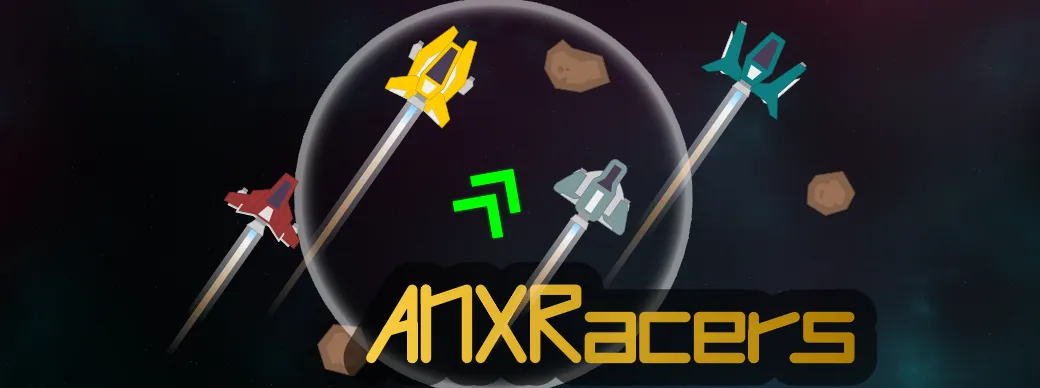
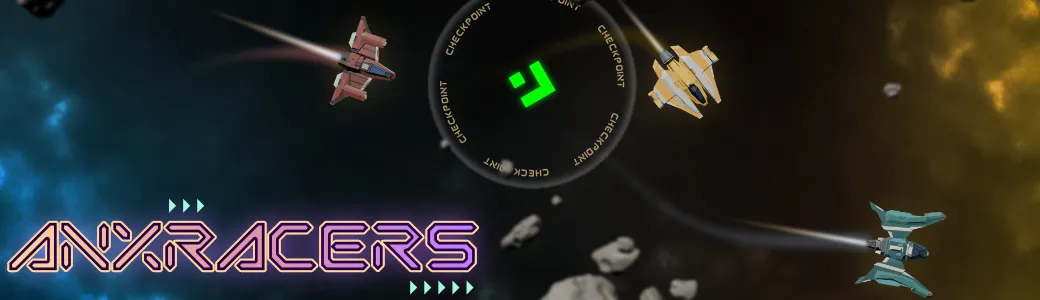
Update Graphic Assets for ANXRacers

diff --git a/racers/index.html b/racers/index.html
@@ -7,7 +7,7 @@
 <html>
 
 <head>
-    <title>ANXRacers</title>
+    <title>ANXRacers - Drift Space</title>
     <meta charset="utf-8" />
     <meta name="viewport"
           content="width=device-width, initial-scale=1, user-scalable=no" />
@@ -85,19 +85,19 @@
     <meta name="msapplication-config"
           content="./meta/browserconfig.xml" />
     <meta property="og:title"
-          content="ANXRacers - Race across the stars!!!" />
+          content="ANXRacers - Drift Space" />
     <meta property="og:site_name"
           content="ANXRacers" />
     <meta property="og:description"
           content="ANXRacers offers you the ultimate arcade spaceship racing experience where everything is about reaching the perfect racing time. Optimize your turns, don't loose your speed, make epic space drifts and set World Records!" />
     <meta property="og:image"
-          content="https://studios.aeonax.com/racers/images/ANXRacersIGDB.png" />
+          content="https://studios.aeonax.com/racers/images/IGDBCoverNeo.png" />
     <meta name="theme-color"
           content="#00FF88" />
     <meta name="twitter:card"
           content="summary_large_image" />
     <script id="_schemaOrgMarkup-Product"
-            type="application/ld+json">{"@type":"Product","@context":"https://schema.org","@id":"https://studios.aeonax.com/racers/index.html","brand":{"@type":"Brand","name":"AEonAX Studios"},"description":"Download and play ANXRacers for FREE at the Itch.io game store. Check for platform availability and play today!","gamePlatform":["windows","android"],"image":"https://studios.aeonax.com/racers/images/ANXRacersIGDB.png","mainEntityOfPage":true,"name":"ANXRacers","operatingSystem":["windows","android"],"producer":"AEonAX Studios","publisher":"AEonAX Studios","url":"https://studios.aeonax.com/racers/index.html","aggregateRating":{"@type":"AggregateRating","ratingValue":"4","reviewCount":"100"},"review":[{"@type":"Review","author":{"@type":"Person","name":"AEonAX"},"datePublished":"2022-11-13","reviewBody":"The game is awesome","name":"Its awesome. Spent so many hours","reviewRating":{"@type":"Rating","bestRating":"5","ratingValue":"5","worstRating":"1"}}],"offers":[{"price":0,"@type":"Offer","@context":"https://schema.org","acceptedPaymentMethod":["http://purl.org/goodrelations/v1#PayPal","http://purl.org/goodrelations/v1#VISA","http://purl.org/goodrelations/v1#MasterCard","http://purl.org/goodrelations/v1#AmericanExpress","http://purl.org/goodrelations/v1#Discover","http://purl.org/goodrelations/v1#JCB","http://purl.org/goodrelations/v1#DinersClub"],"availability":"http://schema.org/InStock","availableDeliveryMethod":"http://purl.org/goodrelations/v1#DeliveryModeDirectDownload","category":"VideoGame","mainEntityOfPage":false,"name":"ANXRacers","description":"ANXRacers offers you the ultimate arcade spaceship racing experience where everything is about reaching the perfect racing time. Optimize your turns, don't loose your speed, make epic space drifts and set World Records!","priceSpecification":{"price":0,"priceCurrency":"USD"},"priceValidUntil":"2023-11-14T00:00:00.000Z","url":"/racers/index.html","priceCurrency":"USD"}]}</script>
+            type="application/ld+json">{"@type":"Product","@context":"https://schema.org","@id":"https://studios.aeonax.com/racers/index.html","brand":{"@type":"Brand","name":"AEonAX Studios"},"description":"Download and play ANXRacers for FREE at the Itch.io game store. Check for platform availability and play today!","gamePlatform":["windows","android"],"image":"https://studios.aeonax.com/racers/images/IGDBCoverNeo.png","mainEntityOfPage":true,"name":"ANXRacers","operatingSystem":["windows","android"],"producer":"AEonAX Studios","publisher":"AEonAX Studios","url":"https://studios.aeonax.com/racers/index.html","aggregateRating":{"@type":"AggregateRating","ratingValue":"4","reviewCount":"100"},"review":[{"@type":"Review","author":{"@type":"Person","name":"AEonAX"},"datePublished":"2022-11-13","reviewBody":"The game is awesome","name":"Its awesome. Spent so many hours","reviewRating":{"@type":"Rating","bestRating":"5","ratingValue":"5","worstRating":"1"}}],"offers":[{"price":0,"@type":"Offer","@context":"https://schema.org","acceptedPaymentMethod":["http://purl.org/goodrelations/v1#PayPal","http://purl.org/goodrelations/v1#VISA","http://purl.org/goodrelations/v1#MasterCard","http://purl.org/goodrelations/v1#AmericanExpress","http://purl.org/goodrelations/v1#Discover","http://purl.org/goodrelations/v1#JCB","http://purl.org/goodrelations/v1#DinersClub"],"availability":"http://schema.org/InStock","availableDeliveryMethod":"http://purl.org/goodrelations/v1#DeliveryModeDirectDownload","category":"VideoGame","mainEntityOfPage":false,"name":"ANXRacers","description":"ANXRacers offers you the ultimate arcade spaceship racing experience where everything is about reaching the perfect racing time. Optimize your turns, don't loose your speed, make epic space drifts and set World Records!","priceSpecification":{"price":0,"priceCurrency":"USD"},"priceValidUntil":"2023-11-14T00:00:00.000Z","url":"/racers/index.html","priceCurrency":"USD"}]}</script>
     <style>
         .theme_turquoise {
             --cc-bg: #161a1c;
@@ -283,9 +283,6 @@
                 <div class="box alt">
                     <div class="row gtr-uniform">
                         <div class="col-12-small col-6-medium col-4"><span class="image fit"><img
-                                     src="./images/videos/Beta-2_Falcon_Serphal.webp"
-                                     alt="" /></span></div>
-                        <div class="col-12-small col-6-medium col-4"><span class="image fit"><img
                                      src="./images/videos/Beta-5_Falcon_AEonAX.webp"
                                      alt="" /></span></div>
                         <div class="col-12-small col-6-medium col-4"><span class="image fit"><img
@@ -293,6 +290,9 @@
                                      alt="" /></span></div>
                         <div class="col-12-small col-6-medium col-4"><span class="image fit"><img
                                      src="./images/videos/AdvancedTrackEditor.webp"
+                                     alt="" /></span></div>
+                        <div class="col-12-small col-6-medium col-4"><span class="image fit"><img
+                                     src="./images/videos/TrackOpsNeo.webp"
                                      alt="" /></span></div>
                         <div class="col-12-small col-6-medium col-4"><span class="image fit"><img
                                      src="./images/videos/Shipyard.webp"

diff --git a/index.html b/index.html
@@ -55,7 +55,8 @@
 						<header class="major">
 							<h2>ANXRacers</h2>
 						</header>
-						<p>Race across the stars</p>
+						<p>Do some spaceship drifting, while setting Galactic Records!!
+						</p>
 						<ul class="actions">
 							<li><a href="./racers/"
 								   class="button">More Info</a></li>
